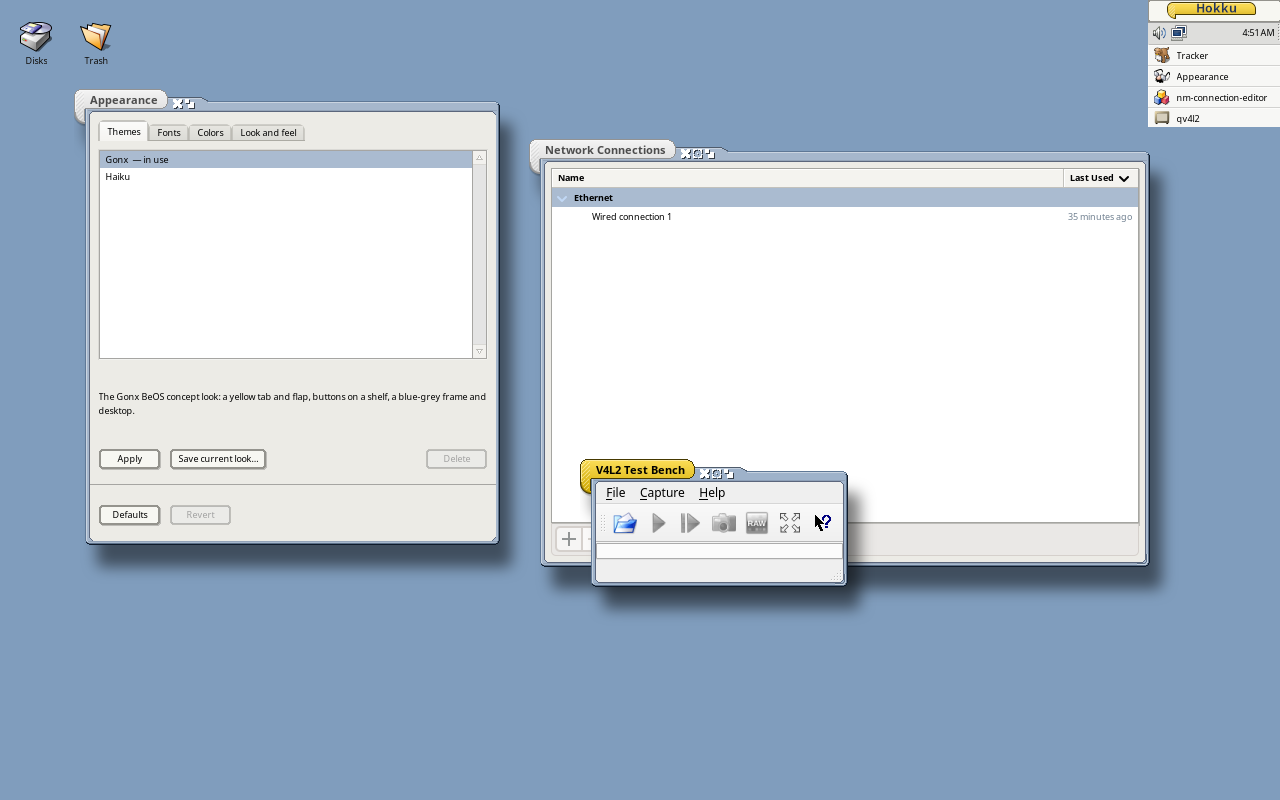
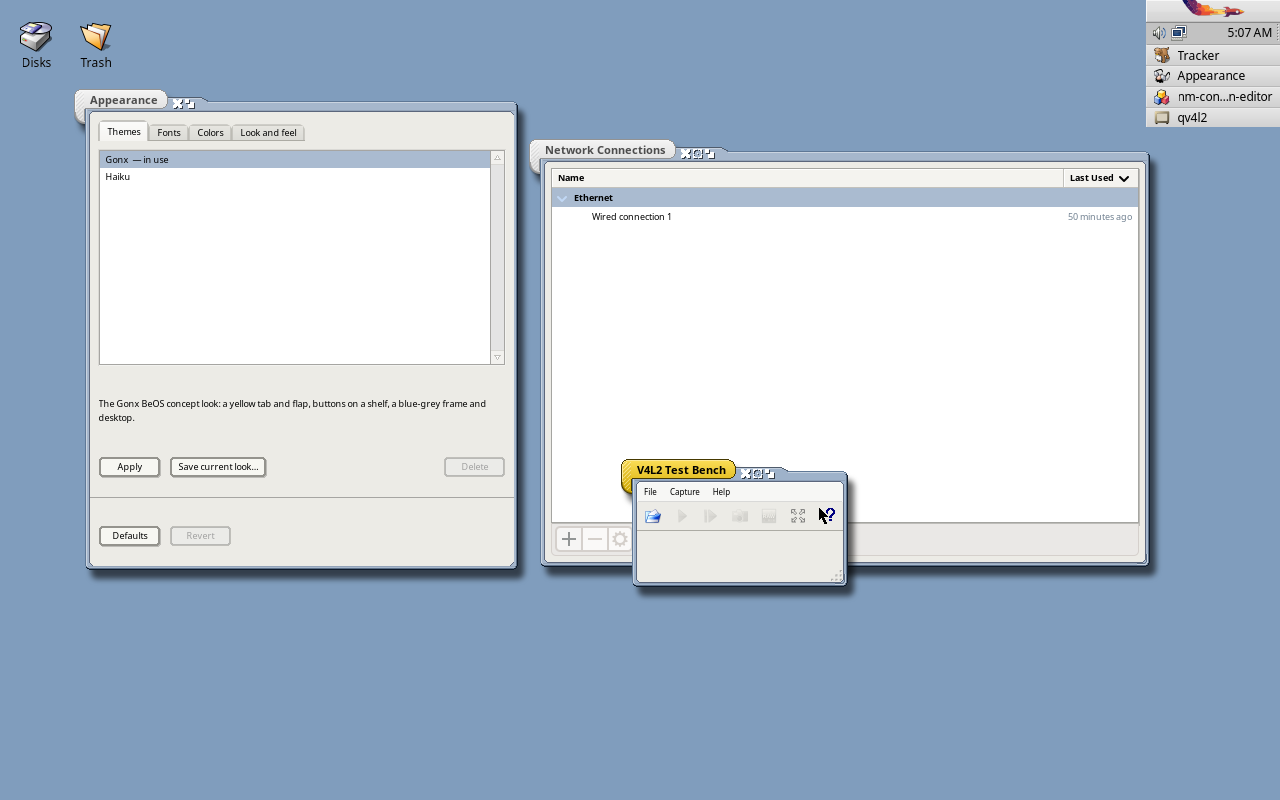
A softer, shorter window shadow
Hokku at 7516f3a: the shadow under every window stands it off the
desktop, moved 6 pixels right and 9 down with a blur of 3 at 60% black,
reaching about 13 pixels right and 16 below.

- labwc-hokku (pkgrel 5): frame sources from 7516f3a.
- README: the frame shots with the new shadow.

diff --git a/README.md b/README.md
@@ -49,14 +49,14 @@ Hokku (2439048) on the 1.0 ISO.
 
 Other apps' windows get the theme's frame too: labwc-hokku draws Hokku's own Haiku or Gonx
 tab and border round them, so a GTK or Qt window moves, zooms, closes and resizes like a Hokku
-one. Every window casts a deep, soft shadow, of a light high up and to the left, as if it
-floated well above the desktop: about 30 pixels past the frame's right edge and 40 below,
-none when it fills the screen. Below, Appearance (Hokku), Network Connections (GTK 3) and
-V4L2 Test Bench (Qt 6), from Hokku 3d1b7f6 and labwc-hokku on the 1.0 ISO:
+one. Every window casts a soft shadow, of a light above and to the left, standing it off the
+desktop: about 13 pixels past the frame's right edge and 16 below, none when it fills the
+screen. Below, Appearance (Hokku), Network Connections (GTK 3) and V4L2 Test Bench (Qt 6),
+from Hokku 7516f3a and labwc-hokku on the 1.0 ISO:
 
-![Haiku's look: Appearance with Haiku in use, Network Connections and V4L2 Test Bench, each in Haiku's frame and casting a long soft shadow down and to the right: a tab as wide as its title with the close box at the left and the zoom box at the right, the Qt app's tab yellow as the active window, the others grey](docs/screenshots/frames-haiku.png)
+![Haiku's look: Appearance with Haiku in use, Network Connections and V4L2 Test Bench, each in Haiku's frame and casting a soft shadow down and to the right: a tab as wide as its title with the close box at the left and the zoom box at the right, the Qt app's tab yellow as the active window, the others grey](docs/screenshots/frames-haiku.png)
 
-![Gonx: the same three windows in the Gonx frame, a rounded tab with the close, zoom and minimize buttons on the blue-grey shelf beside it, each window's long soft shadow falling down and to the right over the desktop and the windows below, the Qt app's tab yellow as the active window](docs/screenshots/frames-gonx.png)
+![Gonx: the same three windows in the Gonx frame, a rounded tab with the close, zoom and minimize buttons on the blue-grey shelf beside it, each window's soft shadow falling down and to the right over the desktop and the windows below, the Qt app's tab yellow as the active window](docs/screenshots/frames-gonx.png)
 
 The same Gonx controls in Hokku's Showcase, a GTK 3 app and a Qt app (the GTK and Qt test
 galleries copy Showcase's layout):
